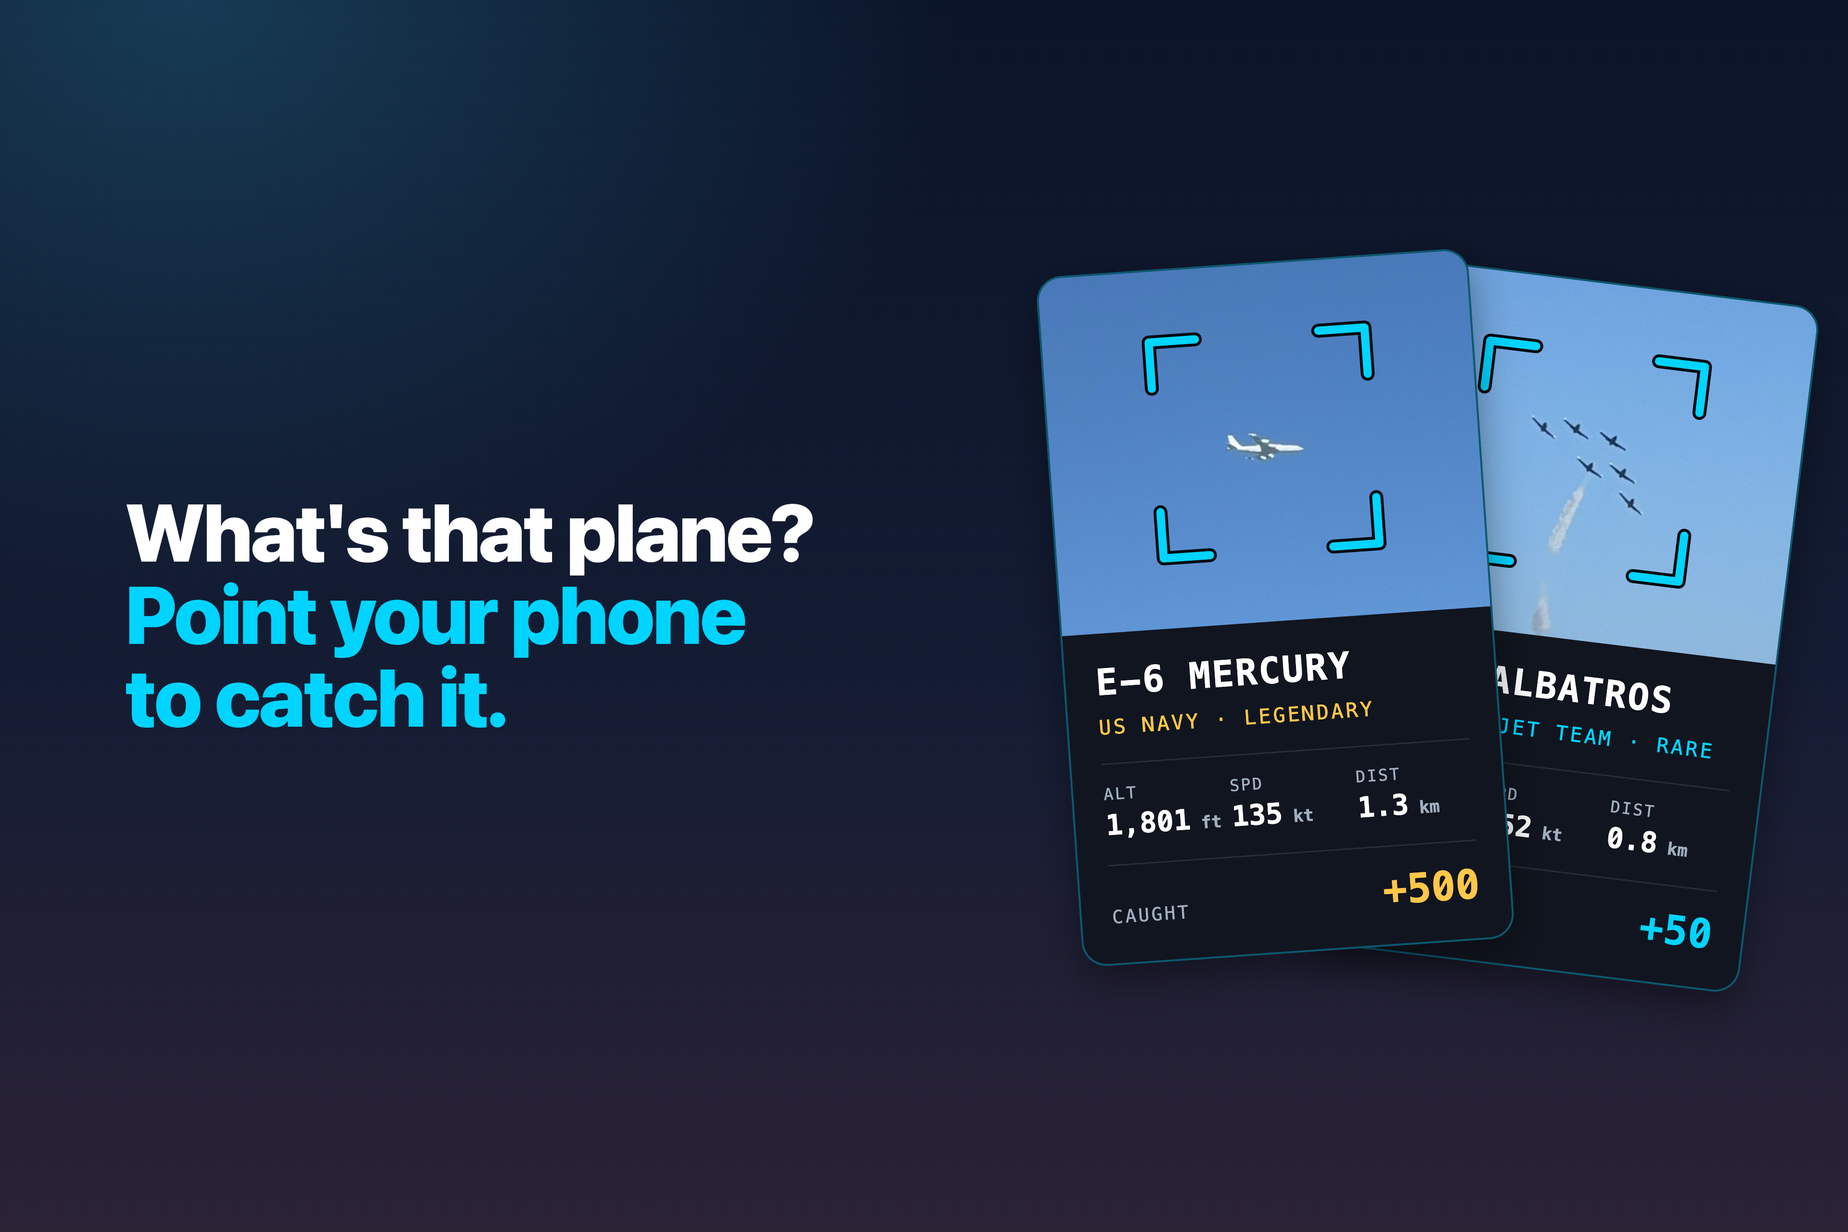
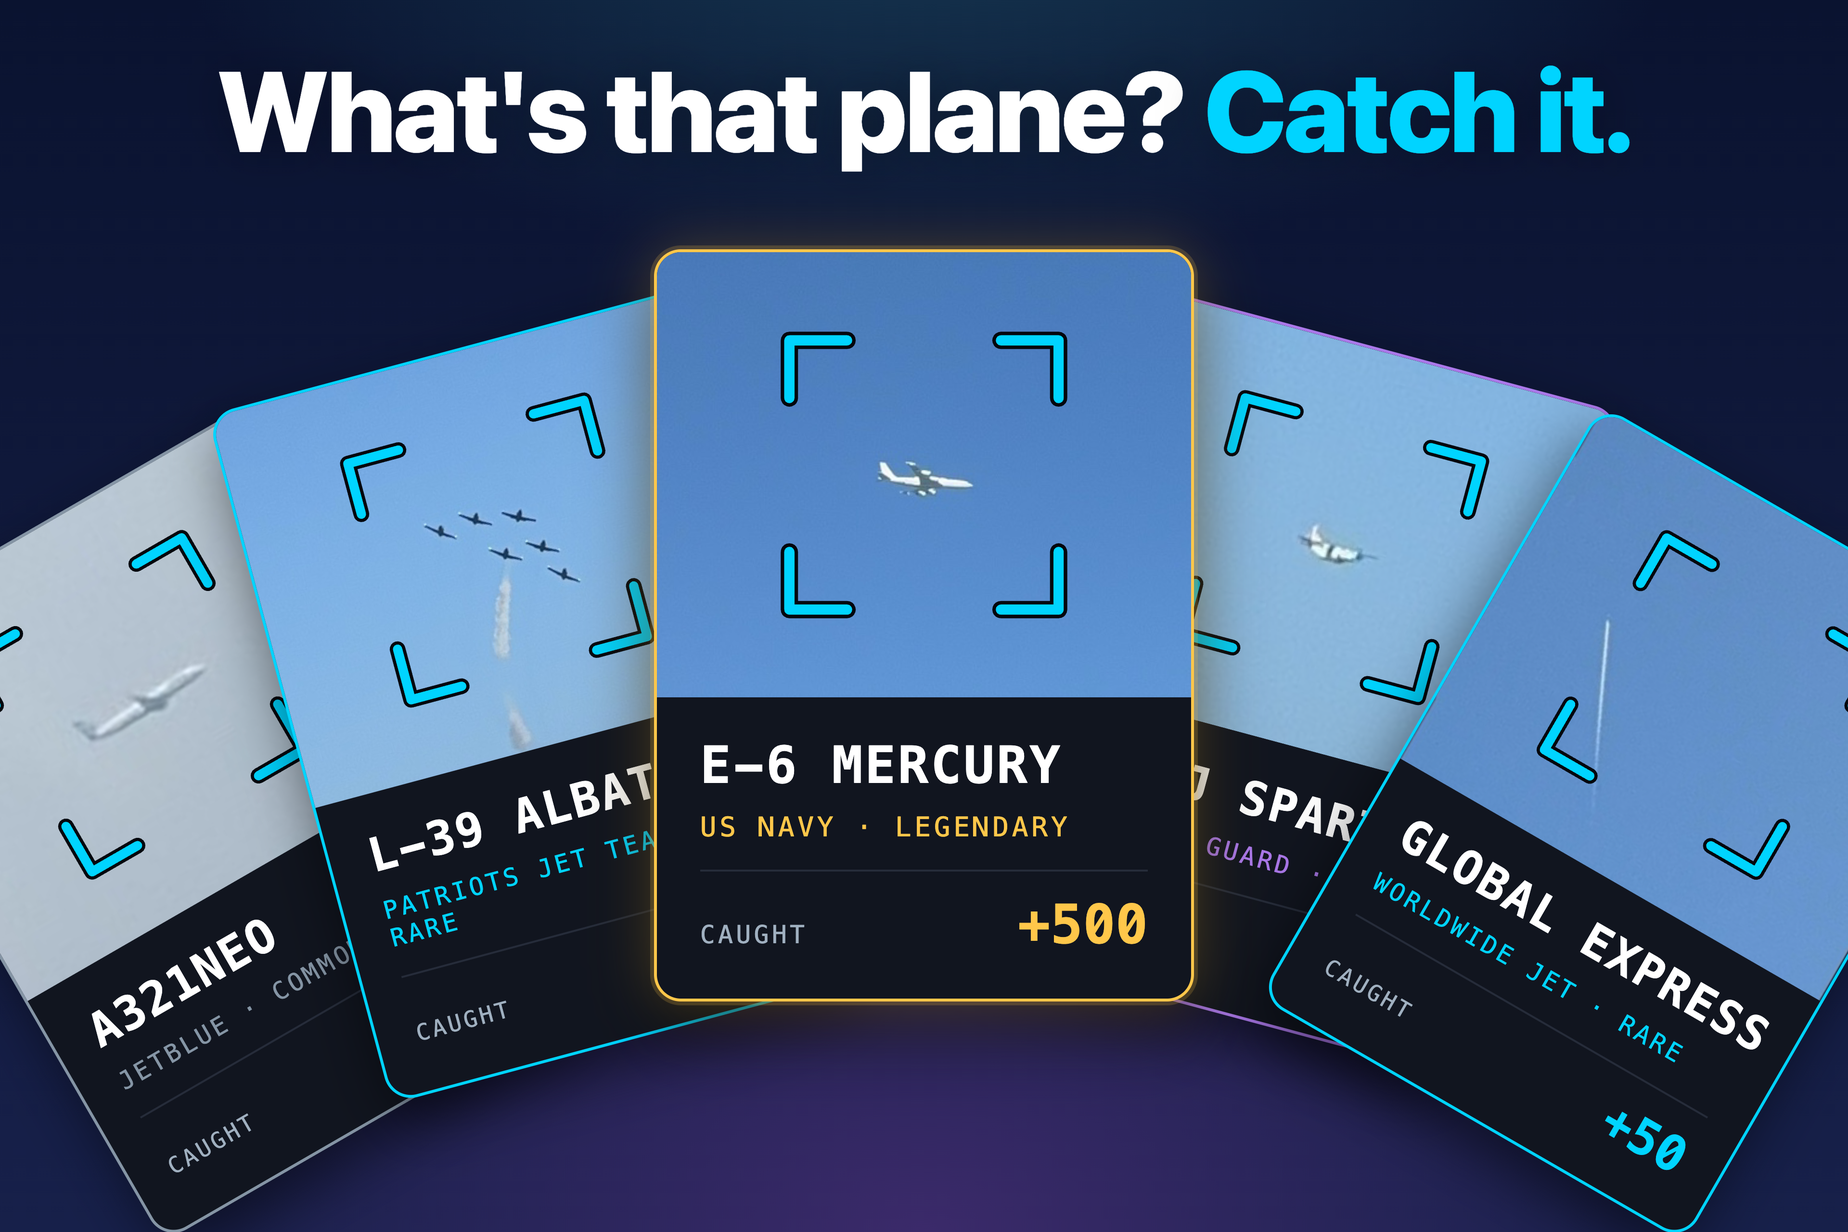
1.2.5 creative: a hand of catches for the header and search slots
Five real catch cards fanned from the bottom, the Legendary E-6 in front.
Noah picked this from seven louder drafts after asking for the creative to
pop more; glows kept low so the headlines read. Already swapped into App
Store Connect for 1.2.5.

diff --git a/marketing/releases/v1.2.5/source/creative.html b/marketing/releases/v1.2.5/source/creative.html
@@ -1,86 +1,64 @@
 <!doctype html>
 <meta charset="utf-8">
 <title>Tailspot creative 1.2.5</title>
-<!-- Header (21:9): the C-27J over the Golden Gate (real catch photo, its bracket baked in by the app), its pinned label, zoom lines and its catch card. Search (3:2) and universal (16:9): the E-6 and L-39 cards.
-     Header (21:9), search results (3:2) and universal (16:9) creative for the 1.2.5 listing.
-     Same cards, gradient and headline as slides 1-2 of deck.html. Open creative.html#header|#search|#universal
+<!-- Header (21:9), search results (3:2) and universal (16:9) creative for the 1.2.5 listing: a hand of five
+     real catches fanned from the bottom, the Legendary E-6 in the middle. Open creative.html#header|#search|#universal
      and screenshot at half size with --force-device-scale-factor=2 (see the folder README). -->
 <style>
-:root{--cyan:#00D4FF;--app-text:#E8F4FF;--app-text-2:#A0B0C0;--card:#11151F;
-  --sf:-apple-system,"SF Pro Display",system-ui,sans-serif;--sfmono:ui-monospace,"SF Mono",Menlo,monospace}
+:root{--cyan:#00D4FF;--navy:#0B1428;--card:#11151F;--t2:#A0B0C0;
+  --sf:-apple-system,"SF Pro Display",system-ui,sans-serif;--mono:ui-monospace,"SF Mono",Menlo,monospace}
 *{box-sizing:border-box}
-html,body{margin:0;padding:0;background:#0B1428;width:1206px;height:2622px;overflow:hidden}
-.slide{position:relative;width:1206px;aspect-ratio:1206/2622;container-type:inline-size;overflow:hidden;
-  background:radial-gradient(90% 40% at 15% 0%,#173B55 0%,transparent 70%),linear-gradient(180deg,#0B1428 0%,#141C33 55%,#2B2236 100%);color:#fff;font-family:var(--sf)}
-/* Headline: same size, weight and place on every slide; the second half in cyan. */
-.hl{position:absolute;left:7cqw;right:7cqw;top:9cqw;font-weight:800;letter-spacing:-.02em;line-height:1.02;text-align:center;font-size:11.5cqw;text-wrap:balance}
-.hl em{font-style:normal;color:var(--cyan)}
-/* Catch card (slides 1-2) and UI panel (slides 3-7) share the top line, border and shadow. */
-.idcard{position:absolute;top:56cqw;border:.4cqw solid rgba(0,212,255,.35);box-shadow:0 3cqw 8cqw rgba(0,0,0,.4)}
-.idcard{left:7cqw;right:7cqw;border-radius:5cqw;background:var(--card);overflow:hidden}
-.idcard .ph{position:relative;aspect-ratio:6/5;overflow:hidden}
-.idcard .ph img{width:100%;height:100%;object-fit:cover;display:block}
-.idcard .ph .ret{position:absolute;left:20%;top:14%;width:60%;height:72%;overflow:visible}
-.idcard .meta{padding:5.5cqw 6cqw 6cqw;display:flex;flex-direction:column;gap:2.4cqw}
-.idcard .ty{font-family:var(--sfmono);font-weight:700;font-size:7.2cqw;letter-spacing:.04em;white-space:nowrap}
-.idcard .op{font-family:var(--sfmono);font-size:4cqw;letter-spacing:.12em}
-.idcard .stats{display:grid;grid-template-columns:repeat(3,1fr);gap:2cqw;margin-top:2.4cqw;border-top:.3cqw solid #262C3A;padding-top:4cqw;padding-bottom:1.2cqw}
-.idcard .stats div{display:flex;flex-direction:column;gap:1cqw}
-.idcard .stats small{font-family:var(--sfmono);font-size:3.2cqw;color:var(--app-text-2);letter-spacing:.1em}
-.idcard .stats strong{font-family:var(--sfmono);font-size:5.6cqw;white-space:nowrap;font-variant-numeric:tabular-nums}
-.idcard .stats strong span{font-size:3.4cqw;color:var(--app-text-2)}
-.idcard .earn{display:flex;justify-content:space-between;align-items:baseline;border-top:.3cqw solid #262C3A;padding-top:4cqw;margin-top:1cqw;font-family:var(--sfmono)}
-.idcard .earn small{font-size:3.6cqw;letter-spacing:.12em;color:var(--app-text-2)}
-.idcard .earn strong{font-size:8cqw}
-
-html,body{width:auto;height:auto}
-.stage{position:relative;overflow:hidden;font-family:var(--sf);color:#fff;
-  background:radial-gradient(60% 70% at 10% 0%,#173B55 0%,transparent 70%),linear-gradient(180deg,#0B1428 0%,#141C33 55%,#2B2236 100%)}
-.cw{position:absolute;container-type:inline-size}
-.cw .idcard{position:relative;top:0;left:0;right:0;margin:0 7cqw}
+html,body{margin:0;background:#000}
+.stage{position:relative;overflow:hidden;font-family:var(--sf);color:#fff}
 .hd{position:absolute;font-weight:800;letter-spacing:-.02em;line-height:1.02}
-.hd em{font-style:normal;color:var(--cyan);display:block}
-.pan{position:absolute;border-radius:28px;overflow:hidden;border:2px solid rgba(0,212,255,.35);box-shadow:0 18px 48px rgba(0,0,0,.45)}
-.pan img{width:100%;height:100%;object-fit:cover;display:block}
-.pan .tag{position:absolute;left:20px;bottom:20px;font-family:var(--sfmono);font-weight:700;font-size:17px;letter-spacing:.1em;padding:9px 14px;border-radius:10px;background:rgba(8,12,20,.78);color:#fff}
-.pan .tag b{color:#AB78EA;font-weight:700}
-/* Header: the app's pinned HUD label under the bracket, and a dashed line from the bracket to the card. */
-.pin{position:absolute;font-family:var(--sfmono);font-weight:700;font-size:22px;letter-spacing:.06em;padding:8px 14px;border-radius:10px;background:rgba(8,12,20,.82);color:var(--cyan);white-space:nowrap;box-shadow:0 6px 18px rgba(0,0,0,.35)}
-.pin b{color:#AB78EA;font-weight:700}
-.link{position:absolute;left:0;top:0;overflow:visible;pointer-events:none}
+.hd em{font-style:normal;display:block}
+/* Card, same build as creative.html but sized by its own width in px. */
+.card{position:absolute;border-radius:28px;background:var(--card);overflow:hidden;border:3px solid rgba(0,212,255,.6);box-shadow:0 24px 60px rgba(0,0,0,.5)}
+.card .ph{position:relative;aspect-ratio:6/5;overflow:hidden}
+.card .ph img{width:100%;height:100%;object-fit:cover;display:block}
+.card .ph svg{position:absolute;left:20%;top:14%;width:60%;height:72%;overflow:visible}
+.card .meta{padding:.07em .08em .08em;display:flex;flex-direction:column;gap:.03em;font-family:var(--mono)}
+.card .ty{font-weight:700;font-size:.095em;letter-spacing:.04em;white-space:nowrap}
+.card .op{font-size:.05em;letter-spacing:.12em}
+.card .earn{display:flex;justify-content:space-between;align-items:baseline;border-top:2px solid #262C3A;padding-top:.04em;margin-top:.02em}
+.card .earn small{font-size:.046em;letter-spacing:.12em;color:var(--t2)}
+.card .earn strong{font-size:.1em}
+.card .stats>div{display:flex;flex-direction:column}
+.card .stats{display:grid;grid-template-columns:repeat(3,1fr);gap:.02em;border-top:2px solid #262C3A;padding-top:.04em;margin-top:.02em}
+.card .stats small{display:block;font-size:.04em;color:var(--t2);letter-spacing:.1em}
+.card .stats strong{font-size:.07em;white-space:nowrap}
+.card .stats strong span{font-size:.6em;color:var(--t2)}
 </style>
 <div id="o"></div>
 <script>
 const arm='M8 26 V8 H26 M74 8 H92 V26 M8 74 V92 H26 M74 92 H92 V74';
-const reticle=`<svg class="ret" viewBox="0 0 100 100" preserveAspectRatio="none" aria-hidden="true">
-  <path d="${arm}" fill="none" stroke="#04070D" stroke-width="5.4" stroke-linecap="round" stroke-linejoin="round"/>
-  <path d="${arm}" fill="none" stroke="#00D4FF" stroke-width="3.2" stroke-linecap="round" stroke-linejoin="round"/></svg>`;
-const card=c=>`<div class="idcard">
-  <div class="ph"><img src="${c.img}" alt="">${reticle}</div>
-  <div class="meta"><div class="ty">${c.ty}</div><div class="op" style="color:${c.tint}">${c.op}</div>
-    <div class="stats"><div><small>ALT</small><strong>${c.alt}<span> ft</span></strong></div><div><small>SPD</small><strong>${c.spd}<span> kt</span></strong></div><div><small>DIST</small><strong>${c.dist}<span> km</span></strong></div></div>
-    <div class="earn"><small>CAUGHT</small><strong style="color:${c.tint}">+${c.pts}</strong></div></div></div>`;
-// Real catch rows (Fleet Week 2026). Tier tints and points from GameSystem.swift.
-const E6 ={img:'e6.png', ty:'E-6 MERCURY',  op:'US NAVY · LEGENDARY',      tint:'#FFC74A',alt:'1,801',spd:'135',dist:'1.3',pts:500};
+const ret=`<svg viewBox="0 0 100 100" preserveAspectRatio="none"><path d="${arm}" fill="none" stroke="#04070D" stroke-width="5.4" stroke-linecap="round" stroke-linejoin="round"/><path d="${arm}" fill="none" stroke="#00D4FF" stroke-width="3.2" stroke-linecap="round" stroke-linejoin="round"/></svg>`;
+// Real catch rows. Tier tints and points from GameSystem.swift.
+const E6 ={img:'e6.png',ty:'E-6 MERCURY',op:'US NAVY · LEGENDARY',tint:'#FFC74A',alt:'1,801',spd:'135',dist:'1.3',pts:500};
 const C27={img:'ph/c27j_card.jpg',ty:'C-27J SPARTAN',op:'US COAST GUARD · EPIC',tint:'#AB78EA',alt:'427',spd:'132',dist:'1.9',pts:100};
-const L39={img:'l39.png',ty:'L-39 ALBATROS',op:'PATRIOTS JET TEAM · RARE', tint:'#00D4FF',alt:'200',  spd:'252',dist:'0.8',pts:50};
+const L39={img:'l39.png',ty:'L-39 ALBATROS',op:'PATRIOTS JET TEAM · RARE',tint:'#00D4FF',alt:'200',spd:'252',dist:'0.8',pts:50};
+const BD7={img:'ph/bd700_card.jpg',ty:'GLOBAL EXPRESS',op:'WORLDWIDE JET · RARE',tint:'#00D4FF',alt:'43,225',spd:'546',dist:'27.1',pts:50};
+const A321={img:'ph/a321_guess.jpg',ty:'A321NEO',op:'JETBLUE · COMMON',tint:'#8595A5',alt:'',spd:'',dist:'',pts:10};
+const card=(c,{x,y,w,rot=0,border,glow,stats=true,origin='50% 50%'})=>`<div class="card" style="left:${x}px;top:${y}px;width:${w}px;font-size:${w}px;transform:rotate(${rot}deg);transform-origin:${origin};${border?`border-color:${border};`:''}${glow?`box-shadow:${glow};`:''}">
+  <div class="ph"><img src="${c.img}" alt="">${ret}</div>
+  <div class="meta"><div class="ty">${c.ty}</div><div class="op" style="color:${c.tint}">${c.op}</div>
+  ${stats&&c.alt?`<div class="stats"><div><small>ALT</small><strong>${c.alt}<span> ft</span></strong></div><div><small>SPD</small><strong>${c.spd}<span> kt</span></strong></div><div><small>DIST</small><strong>${c.dist}<span> km</span></strong></div></div>`:''}
+  <div class="earn"><small>CAUGHT</small><strong style="color:${c.tint}">+${c.pts}</strong></div></div></div>`;
 
-// Layouts in CSS px at half the output size. Header: content stays inside the
-// 16:9 centre crop App Store Connect shows on iPhone (x 228..1692 of 1920).
+// A fan of cards: the four side cards at +/-step and +/-2*step around a shared pivot below the
+// frame, the E-6 a little bigger and higher in front. cx is the fan's centre line.
+const fan=({cx,y,w,step,pivot='50% 260%'})=>
+  [[A321,-2],[L39,-1],[C27,1],[BD7,2]].map(([c,i])=>card(c,{x:cx-w/2,y,w,rot:i*step,stats:false,origin:pivot,border:c.tint})).join('')+
+  card(E6,{x:cx-w*0.55,y:y-w*0.08,w:w*1.1,stats:false,origin:pivot,border:'#FFC74A',glow:'0 0 0 4px rgba(255,199,74,.18),0 0 60px rgba(255,199,74,.28),0 30px 70px rgba(0,0,0,.6)'});
+const bg='radial-gradient(60% 60% at 50% 100%,#3B2A6A 0%,transparent 70%),radial-gradient(60% 45% at 50% -10%,#173B55 0%,transparent 70%),linear-gradient(180deg,#0A1330,#17204A)';
+const hl=(size,css)=>`<div class="hd" style="${css};font-size:${size}px;text-shadow:0 0 .4em rgba(0,0,0,.3)">`;
+// Layouts in CSS px at half the output size. The header keeps everything inside the 16:9
+// centre crop App Store Connect shows on iPhone (x 228..1692 of 1920).
 const L={
- header:{w:1920,h:823,hd:{x:250,y:318,size:64,t:['Catch the planes','flying overhead.']},
-   pan:{x:800,y:96,w:550,h:631,pos:'18% 60%',pin:{x:96,y:424}},
-   link:[[1068,330,1392,178],[1068,490,1380,372]],
-   cards:[{c:C27,x:1282,y:122,w:380,rot:5}]},
- search:{w:1920,h:1280,hd:{x:130,y:511,size:84},cards:[{c:L39,x:1400,y:290,w:450,rot:7},{c:E6,x:1100,y:272,w:450,rot:-4}]},
- universal:{w:2622,h:1475,hd:{x:190,y:569,size:110},cards:[{c:L39,x:1870,y:330,w:520,rot:7},{c:E6,x:1500,y:310,w:520,rot:-4}]},
+ search:{w:1920,h:1280,html:()=>hl(118,'left:0;right:0;top:56px;text-align:center')+`What's that plane? <em style="display:inline;color:var(--cyan)">Catch it.</em></div>`+fan({cx:960,y:300,w:510,step:15})},
+ universal:{w:2622,h:1475,html:()=>hl(150,'left:0;right:0;top:70px;text-align:center')+`What's that plane? <em style="display:inline;color:var(--cyan)">Catch it.</em></div>`+fan({cx:1311,y:350,w:620,step:15})},
+ header:{w:1920,h:823,html:()=>hl(78,'left:268px;top:312px')+`Catch the planes<em style="color:var(--cyan)">overhead.</em></div>`+fan({cx:1296,y:170,w:290,step:7})},
 };
-const k=location.hash.slice(1)||'search', l=L[k];
-document.body.style.width=l.w+'px';
-document.getElementById('o').innerHTML=`<div class="stage" style="width:${l.w}px;height:${l.h}px">
- <div class="hd" style="left:${l.hd.x}px;top:${l.hd.y}px;font-size:${l.hd.size}px">${(l.hd.t||['What\'s that plane?'])[0]}<em>${(l.hd.t||['','Point your phone<br>to catch it.'])[1]}</em></div>
- ${l.pan?`<div class="pan" style="left:${l.pan.x}px;top:${l.pan.y}px;width:${l.pan.w}px;height:${l.pan.h}px"><img src="ph/c27j_gg.jpg" alt="" style="object-position:${l.pan.pos}">${l.pan.pin?`<div class="pin" style="left:${l.pan.pin.x}px;top:${l.pan.pin.y}px">C2703 · <b>EPIC +100</b></div>`:`<div class="tag">C-27J SPARTAN · <b>EPIC</b></div>`}</div>`:''}
- ${l.link?`<svg class="link" width="${l.w}" height="${l.h}" aria-hidden="true">${l.link.map(([a,b,c,d])=>`<line x1="${a}" y1="${b}" x2="${c}" y2="${d}" stroke="#04070D" stroke-width="6" stroke-linecap="round" opacity=".55"/><line x1="${a}" y1="${b}" x2="${c}" y2="${d}" stroke="#00D4FF" stroke-width="3" stroke-dasharray="10 9" stroke-linecap="round"/>`).join('')}</svg>`:''}
- ${l.cards.map(q=>`<div class="cw" style="left:${q.x}px;top:${q.y}px;width:${q.w/0.86}px;margin-left:${-q.w*0.07/0.86}px;transform:rotate(${q.rot}deg)">${card(q.c)}</div>`).join('')}
-</div>`;
+const l=L[location.hash.slice(1)||'search'];
+document.getElementById('o').innerHTML=`<div class="stage" style="width:${l.w}px;height:${l.h}px;background:${bg}">${l.html()}</div>`;
 </script>

diff --git a/marketing/releases/v1.2.5/README.md b/marketing/releases/v1.2.5/README.md
@@ -12,7 +12,8 @@ What is in App Store Connect for 1.2.5 (en-US), as of 2026-11-11:
 - **6.3" (`APP_IPHONE_61`)**: `screenshots/`, 1206 × 2622.
 - **Header**: `creative/header_21x9_3840x1646.png`. **Search results**:
   `creative/search_3x2_3840x2560.png`. `universal_16x9_5244x2950.png` is in the asset
-  library but not placed.
+  library but not placed. These are the "hand of catches" images, swapped in later on
+  2026-11-11 (the first upload that day was the C-27J header and the E-6/L-39 search image).
 
 The creative slots use the App Store Connect API's asset library: upload with
 `POST /v1/appAssetLibraryImages` (category `CREATIVE_ASSETS`, relationship
@@ -39,7 +40,7 @@ To do it by hand instead: App Store Connect → 1.2.5 → iPhone screenshots →
 - `source/deck.html`: the renderer for all seven slides
 - `source/creative.html`: the renderer for the three creative assets (`#header`, `#search`, `#universal`)
 - `source/e6.png`, `source/l39.png`: photo crops for slides 1–2
-- `source/ph/`: `c27j_gg.jpg` (the header photo, a copy of `catch-photos/fw_c27j_golden_gate.jpg`), `c27j_card.jpg` (the header card's photo), `a321_guess.jpg`, slide 3's photo (the area inside the bracket baked into
+- `source/ph/`: `c27j_card.jpg` (crop 300x250+432+1516 of `catch-photos/fw_c27j_golden_gate.jpg`), `bd700_card.jpg` (crop 380x317+266+110 of `catch-photos/bd700_rare.jpg`, inside the app's bracket, scaled to 640 wide), both used by the creative cards; `a321_guess.jpg`, slide 3's photo (the area inside the bracket baked into
   `catch-photos/a321_with_route_first.jpg`, crop 256x144+294+212, scaled to 941 × 529),
   and the app icon for slide 7's push
 
@@ -98,30 +99,29 @@ headlines and layouts.
 
 ## Creative assets
 
-Same look as the slides (dusk gradient, the slide headline type, no phone), and
-the two slots show different images:
+All three show the same thing, "a hand of catches": five real catch cards fanned
+from the bottom like a hand of cards, with the Legendary E-6 in front in a gold
+border and soft gold glow. The other four are the JetBlue A321neo (Common +10,
+JBU1770), the Patriots L-39 (Rare +50), the Coast Guard C-27J (Epic +100) and the
+Global Express (Rare +50, WWI21). Tier colours and points are from `GameSystem.swift`.
+The cards are a short version of the catch card (photo, type, operator and tier,
+points) because the stats don't fit at this size.
 
-- **Search results (and universal):** "What's that plane? Point your phone to
-  catch it." with the E-6 and L-39 catch cards fanned on the right. This is the
-  image a searcher sees. Its line (Noah's, 2026-11-11) adds "catch". Slide 1
-  keeps "Point your phone at it.": the longer line runs to five lines at
-  slide width and pushes the card down, and the first thumbnail needs a short
-  headline.
-- **Header:** "Catch the planes flying overhead." with the whole catch told left to
-  right: the C-27J over the Golden Gate (`catch-photos/fw_c27j_golden_gate.jpg`,
-  copied to `source/ph/c27j_gg.jpg`) with the app's pinned label (`C2703 · EPIC
-  +100`), dashed zoom lines from the bracket to its catch card, and the card
-  itself (C-27J Spartan, US Coast Guard, Epic, 427 ft, 132 kt, 1.9 km, +100: the
-  catch row). The card photo is `source/ph/c27j_card.jpg`, crop 300x250+432+1516
-  of the original, so the plane is big enough to see. Redone 2026-11-11 after
-  Noah found the first header hard to read (the plane was a speck in a crowd
-  photo). A few strangers in the crowd are recognisable at full size, as on the
-  1.2.2 slide 1.
+- **Search results and universal:** "What's that plane? **Catch it.**" across the
+  top, fan below. The line is shorter than slide 1's so it can be big enough to
+  read in a search thumbnail.
+- **Header:** "Catch the planes **overhead.**" on the left, fan on the right, all inside
+  the 16:9 centre crop App Store Connect shows on iPhone (x 228..1692 of the 1920
+  half-size layout). Check the Preview tool there after a change.
 
-They replace the 1.2.2 airshow-trio header and the phone-plus-E-6 search image,
-which used the old split-flap cards. The header keeps everything inside the 16:9
-centre crop App Store Connect shows on iPhone (about 2926 of 3840 px); check the
-Preview tool there after upload.
+History (2026-11-11, Noah's reviews the same day): first a C-27J-over-the-Golden-Gate
+header and an E-6/L-39 search image (uploaded); then "could these pop more?" led to
+louder drafts (bigger type, a sunset glow, gold rays, an all-cyan field, a full-bleed
+sky, arcade yellow, and this fan). Noah picked the fan, asked for the gold glow and
+the blue glow behind the headline to be turned down so the text reads, and changed
+the header line from "flying overhead" to "overhead".
+
+They replace the 1.2.2 airshow-trio header and the phone-plus-E-6 search image.
 
 Render at half size with a device scale factor of 2:
 

diff --git a/marketing/releases/README.md b/marketing/releases/README.md
@@ -23,4 +23,4 @@ belongs to the next version.
 | [v1.1.1](v1.1.1/) | 2026-09-13 | shipped (live 2026-09-14, build 94) | Slides 2–6 re-captured for the new card frames, units and sets. |
 | [v1.2.0](v1.2.0/) | 2026-10-02 | packaged for 1.2.0 (live 2026-10-03); upload not recorded | Slide 7 (Challenges); slide 2 fill and slide 3 crop fixes. Still the live set for 1.2.1. |
 | [v1.2.2](v1.2.2/) | 2026-10-12 | shipped (live 2026-10-12, build 107) | Fleet Week slides 1–2 (C-27J over the Golden Gate, Legendary E-6); first header and search results assets. |
-| [v1.2.5](v1.2.5/) | 2026-11-11 | uploaded 2026-11-11 (1.2.5 not submitted yet) | New slides 1–2 for tracker searchers (E-6 "What's that plane?", L-39 "Every catch goes into your Hangar"); slides 3–7 redrawn as illustrations close to the app (guess round, Sets tab, trophy unlock, podium, challenge push); one look, no device frames. **1206 × 2622**: App Store Connect rejected 1284 × 2778 for this slot. New header (the C-27J over the Golden Gate, zoomed into its catch card) and search results (E-6 and L-39 cards) images in the same look. Rendered from `source/deck.html` and `source/creative.html`, not the deck editor. |
+| [v1.2.5](v1.2.5/) | 2026-11-11 | uploaded 2026-11-11 (1.2.5 not submitted yet) | New slides 1–2 for tracker searchers (E-6 "What's that plane?", L-39 "Every catch goes into your Hangar"); slides 3–7 redrawn as illustrations close to the app (guess round, Sets tab, trophy unlock, podium, challenge push); one look, no device frames. **1206 × 2622**: App Store Connect rejected 1284 × 2778 for this slot. New header and search results images: a hand of five real catch cards with the Legendary E-6 in front. Rendered from `source/deck.html` and `source/creative.html`, not the deck editor. |
